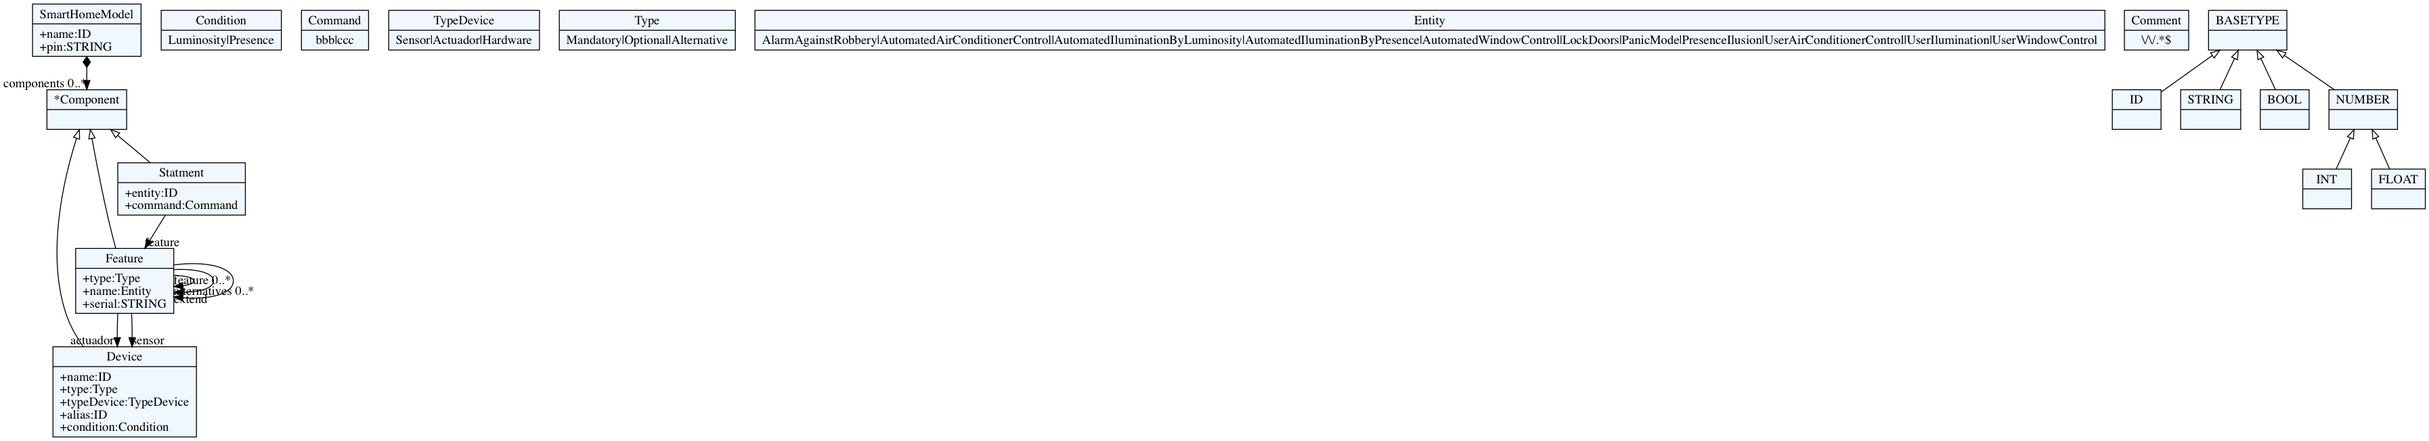
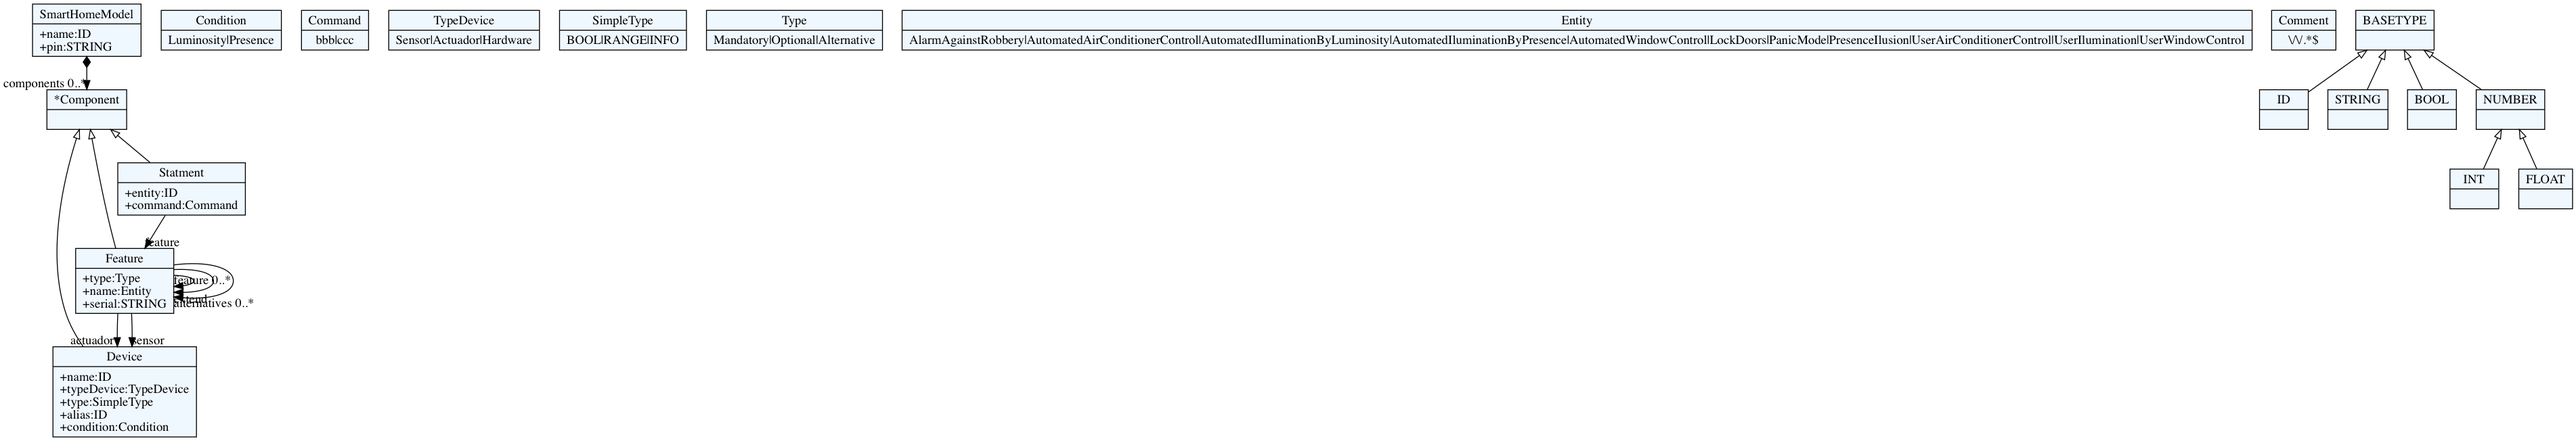
Adding device returning types

diff --git a/srcgen/src/rise/smarthome/model/home/HouseFacade.java b/srcgen/src/rise/smarthome/model/home/HouseFacade.java
@@ -377,11 +377,11 @@ public class HouseFacade {
 	}
 	private void recreateFatherFeature(FeatureBase feature) {
 
-		if(feature instanceof UserWindowControl){
-			UserWindowControl userwindowcontrol = UserWindowControl.getInstance(((UserIlumination)feature).getLeds());
-			exchangeRequiredFeature(feature, userwindowcontrol);
+		if(feature instanceof UserAirConditionerControl){
+			UserAirConditionerControl userairconditionercontrol = UserAirConditionerControl.getInstance(((UserIlumination)feature).getLeds());
+			exchangeRequiredFeature(feature, userairconditionercontrol);
 			features.remove(feature);
-			addFeature(userwindowcontrol);
+			addFeature(userairconditionercontrol);
 		}
 		
 
@@ -393,13 +393,6 @@ public class HouseFacade {
 		}
 		
 		
-
-		if(feature instanceof UserAirConditionerControl){
-			UserAirConditionerControl userairconditionercontrol = UserAirConditionerControl.getInstance(((UserIlumination)feature).getLeds());
-			exchangeRequiredFeature(feature, userairconditionercontrol);
-			features.remove(feature);
-			addFeature(userairconditionercontrol);
-		}
 		
 
 		if(feature instanceof UserIlumination){

diff --git a/templates/deviceTemplate.java b/templates/deviceTemplate.java
@@ -6,8 +6,22 @@ public class {{data.device.name}} extends {{data.device.typeDevice}} {
 	public {{data.device.name}}(int pin, boolean isAnalog) {
 		super(pin, isAnalog,{% if data.device.alias %}"{{data.device.alias}}"{% else %}"{{data.device.name|splitName}}"{% endif %});
  	}
-        @Override
-	public String toString() {
+
+    @Override
+    {% if data.device.type == "BOOL" %}
+	protected int[] activationValues() {
+		int[] activated = {0};
+		return activated;
+	}
+    {% endif %}
+    {% if data.device.type == "RANGE" %}
+	protected int[] activationValues() {
+		return ListUtils.createArrayRange(0, 100);
+	}
+	{% endif %}
+    {% if data.device.type == "INFO" %}
+    public String toString() {
 		return "{% if data.device.alias %}{{data.device.alias}}{% else %}{{data.device.name|splitName}}{% endif %} [state=" + getState() + ", pin=" + getPin()+ "]";
 	}
+    {% endif %}
 }

diff --git a/srcgen/src/rise/smarthome/features/AutomatedAirConditionerControl.java b/srcgen/src/rise/smarthome/features/AutomatedAirConditionerControl.java
@@ -9,7 +9,7 @@ import rise.smarthome.model.devices.TemperatureSensor;
 
 @AlternativeFeature(alternatives={
 	UserAirConditionerControl.class})
-public class AutomatedAirConditionerControl extends UserWindowControl implements AdaptableFeature {
+public class AutomatedAirConditionerControl extends UserAirConditionerControl implements AdaptableFeature {
     private ArrayList<AirConditioner> automatedairconditionercontrolToAutomate;
     private TemperatureSensor temperaturesensor;
     private static AutomatedAirConditionerControl automatedairconditionercontrol = null;

diff --git a/srcgen/src/rise/smarthome/model/devices/TemperatureSensor.java b/srcgen/src/rise/smarthome/model/devices/TemperatureSensor.java
@@ -4,10 +4,11 @@ package rise.smarthome.model.devices;
 public class TemperatureSensor extends Sensor {
 
 	public TemperatureSensor(int pin, boolean isAnalog) {
-		super(pin, isAnalog,"bu");
+		super(pin, isAnalog,"Temperature Sensor");
  	}
-        @Override
-	public String toString() {
-		return "bu [state=" + getState() + ", pin=" + getPin()+ "]";
+
+    @Override
+	protected int[] activationValues() {
+		return ListUtils.createArrayRange(0, 100);
 	}
 }

diff --git a/SmartHome/src/rise/smarthome/features/LockDoors.java b/SmartHome/src/rise/smarthome/features/LockDoors.java
@@ -37,7 +37,7 @@ public class LockDoors {% if data.feature.extends %}extends {{data.feature.exten
 		if(lockDoors == null){
 			lockDoors = new LockDoors();
 			lockDoors.setName("{{data.feature.name|splitName}}");
-            lockDoors.set{{data.feature.actuador.name}}s({{data.feature.actuador.name}}s);
+            lockDoors.set{{data.feature.actuador.name}}s({{data.feature.actuador.name|lower}}s);
 		}
 		return lockDoors;
 	}

diff --git a/srcgen/src/rise/smarthome/model/devices/PresenceSensor.java b/srcgen/src/rise/smarthome/model/devices/PresenceSensor.java
@@ -6,8 +6,10 @@ public class PresenceSensor extends Sensor {
 	public PresenceSensor(int pin, boolean isAnalog) {
 		super(pin, isAnalog,"Presence Sensor");
  	}
-        @Override
-	public String toString() {
-		return "Presence Sensor [state=" + getState() + ", pin=" + getPin()+ "]";
+
+    @Override
+	protected int[] activationValues() {
+		int[] activated = {0};
+		return activated;
 	}
 }

diff --git a/srcgen/src/rise/smarthome/model/devices/LightSensor.java b/srcgen/src/rise/smarthome/model/devices/LightSensor.java
@@ -6,8 +6,9 @@ public class LightSensor extends Sensor {
 	public LightSensor(int pin, boolean isAnalog) {
 		super(pin, isAnalog,"Light Sensor");
  	}
-        @Override
-	public String toString() {
-		return "Light Sensor [state=" + getState() + ", pin=" + getPin()+ "]";
+
+    @Override
+	protected int[] activationValues() {
+		return ListUtils.createArrayRange(0, 100);
 	}
 }

diff --git a/srcgen/src/rise/smarthome/model/devices/AutomaticWindow.java b/srcgen/src/rise/smarthome/model/devices/AutomaticWindow.java
@@ -6,8 +6,9 @@ public class AutomaticWindow extends Actuator {
 	public AutomaticWindow(int pin, boolean isAnalog) {
 		super(pin, isAnalog,"Automatic Window");
  	}
-        @Override
-	public String toString() {
+
+    @Override
+    public String toString() {
 		return "Automatic Window [state=" + getState() + ", pin=" + getPin()+ "]";
 	}
 }

diff --git a/srcgen/src/rise/smarthome/model/devices/AirConditioner.java b/srcgen/src/rise/smarthome/model/devices/AirConditioner.java
@@ -6,8 +6,9 @@ public class AirConditioner extends Actuator {
 	public AirConditioner(int pin, boolean isAnalog) {
 		super(pin, isAnalog,"Air Conditioner");
  	}
-        @Override
-	public String toString() {
+
+    @Override
+    public String toString() {
 		return "Air Conditioner [state=" + getState() + ", pin=" + getPin()+ "]";
 	}
 }

diff --git a/srcgen/src/rise/smarthome/model/devices/AutomaticDoor.java b/srcgen/src/rise/smarthome/model/devices/AutomaticDoor.java
@@ -6,8 +6,9 @@ public class AutomaticDoor extends Actuator {
 	public AutomaticDoor(int pin, boolean isAnalog) {
 		super(pin, isAnalog,"Automatic Door");
  	}
-        @Override
-	public String toString() {
+
+    @Override
+    public String toString() {
 		return "Automatic Door [state=" + getState() + ", pin=" + getPin()+ "]";
 	}
 }

diff --git a/srcgen/src/rise/smarthome/features/LockDoors.java b/srcgen/src/rise/smarthome/features/LockDoors.java
@@ -19,7 +19,7 @@ public class LockDoors  extends FeatureBase  {
 		if(lockDoors == null){
 			lockDoors = new LockDoors();
 			lockDoors.setName("Lock Doors");
-            lockDoors.setAutomaticDoors(AutomaticDoors);
+            lockDoors.setAutomaticDoors(automaticdoors);
 		}
 		return lockDoors;
 	}

diff --git a/srcgen/src/rise/smarthome/model/devices/Alarm.java b/srcgen/src/rise/smarthome/model/devices/Alarm.java
@@ -6,8 +6,9 @@ public class Alarm extends Actuator {
 	public Alarm(int pin, boolean isAnalog) {
 		super(pin, isAnalog,"Alarm");
  	}
-        @Override
-	public String toString() {
+
+    @Override
+    public String toString() {
 		return "Alarm [state=" + getState() + ", pin=" + getPin()+ "]";
 	}
 }
